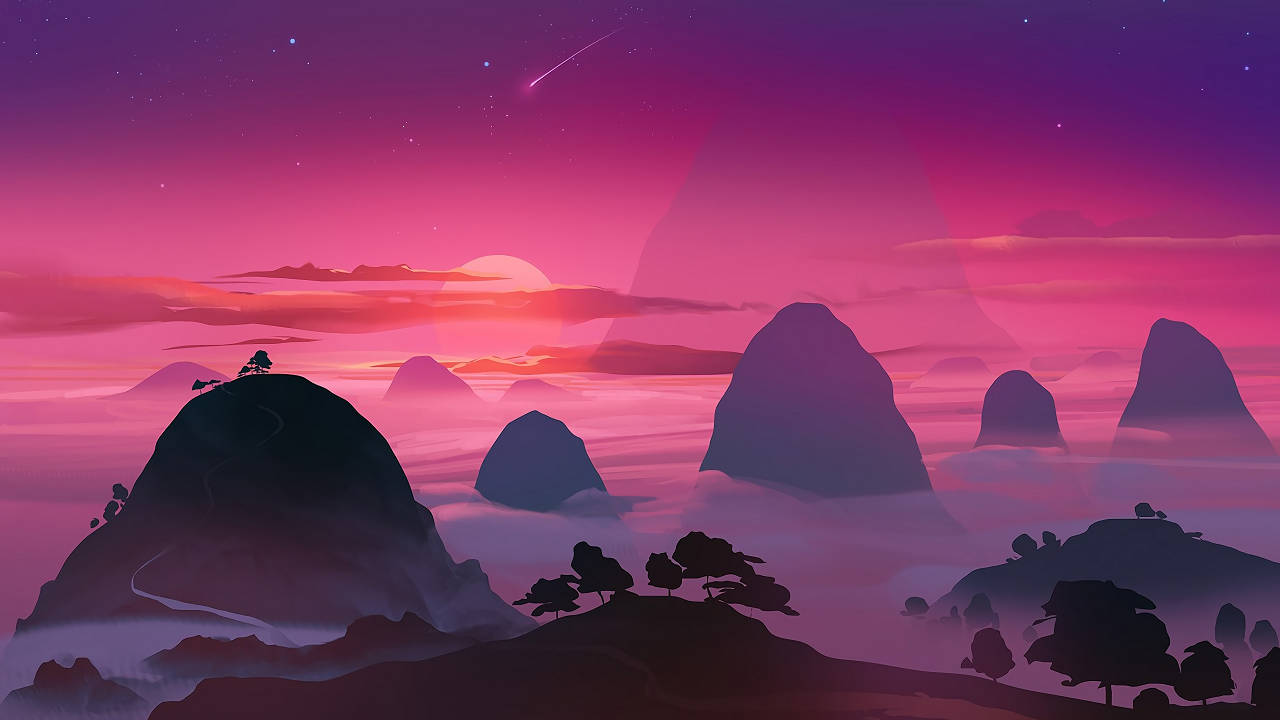
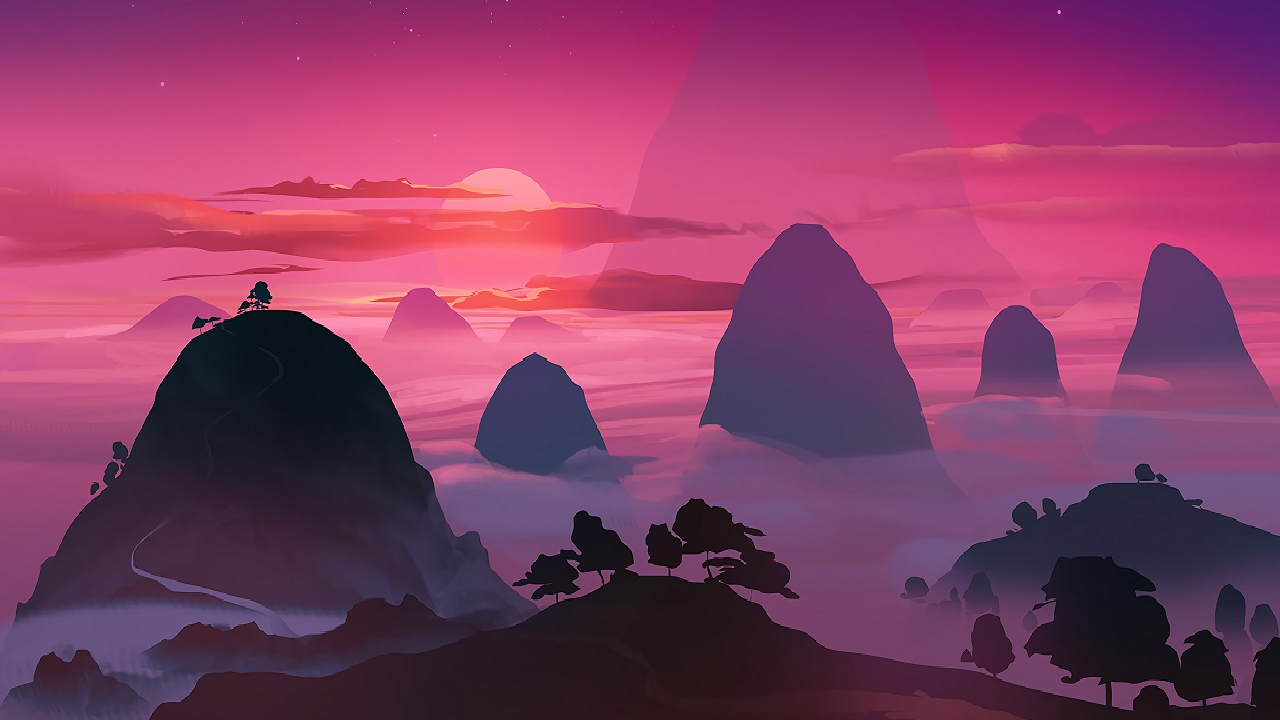
feat: working side scrolling background

diff --git a/src/script.js b/src/script.js
@@ -1,11 +1,15 @@
+const SCREEN_WIDTH = 1280;
+const SCREEN_HEIGHT = 720;
 const WORLD_BG = "./assets/scenes/world_bg.png";
 const PLAYER_IMG = "./assets/personas/persona_1.png";
+const MOUNTAIN_IMG = "./assets/scenes/mountains_side.png";
+const STREET_IMG = "./assets/scenes/street_side.png";
 
 class GameEngine {
   constructor() {
     this.canvas = document.createElement("canvas");
-    this.canvas.width = 1280;
-    this.canvas.height = 720;
+    this.canvas.width = SCREEN_WIDTH;
+    this.canvas.height = SCREEN_HEIGHT;
     this.context = this.canvas.getContext("2d");
     this.bgImage = new Image();
     this.bgImage.src = WORLD_BG;
@@ -13,7 +17,6 @@ class GameEngine {
 
   start() {
     document.body.insertBefore(this.canvas, document.body.childNodes[0]);
-    this.interval = setInterval(updateGame, 30);
   }
 
   clear() {
@@ -28,21 +31,47 @@ class GameEngine {
   }
 }
 
+class ScrollingComponent {
+  constructor(imagePath, x, y, width, height, speed) {
+    this.x = x;
+    this.y = y;
+
+    this.width = width;
+    this.height = height;
+
+    this.speed = speed;
+    this.image = new Image();
+    this.image.src = imagePath;
+  }
+
+  scroll(context) {
+    // change sign of speed to change scroll direction
+    this.x = (((this.x - this.speed) % this.width) + this.width) % this.width;
+    this.drawImageRepeat(context);
+  }
+
+  drawImageRepeat(context) {
+    context.drawImage(this.image, this.x, this.y);
+    context.drawImage(this.image, this.x + this.width, this.y);
+    context.drawImage(this.image, this.x - this.width, this.y);
+  }
+}
 class GameComponent {
-  constructor(imagePath, x, y, width, height, context) {
+  constructor(imagePath, x, y, accX, accY, width, height) {
     this.x = x;
     this.y = y;
 
     this.speedX = 0;
     this.speedY = 0;
 
+    this.accX = accX;
+    this.accY = accY;
+
     this.width = width;
     this.height = height;
 
     this.image = new Image();
     this.image.src = imagePath;
-
-    this.context = context;
   }
 
   setPosition() {
@@ -53,16 +82,16 @@ class GameComponent {
   move(direction) {
     const actions = {
       up: () => {
-        this.speedY = -1;
+        this.speedY -= this.accY;
       },
       down: () => {
-        this.speedY = 1;
+        this.speedY += this.accY;
       },
       left: () => {
-        this.speedX = -1;
+        this.speedX -= this.accX;
       },
       right: () => {
-        this.speedX = 1;
+        this.speedX += this.accX;
       },
       stop: () => {
         this.speedX = 0;
@@ -70,32 +99,34 @@ class GameComponent {
       },
     };
     actions[direction]();
-    
+
     this.setPosition();
   }
 
-  draw() {
-    this.context.drawImage(this.image, this.x, this.y, this.width, this.height);
+  draw(context) {
+    context.drawImage(this.image, this.x, this.y, this.width, this.height);
   }
 }
 
+const gamePlayers = [];
+const gameScenario = [];
 const GAME_RUNTIME = new GameEngine();
-const gameElements = [];
-var myGamePiece;
 
 function startGame() {
   GAME_RUNTIME.start();
-  gameElements.push(
-    new GameComponent(PLAYER_IMG, 30, 30, 160, 120, GAME_RUNTIME.context)
-  );
+  gamePlayers.push(new GameComponent(PLAYER_IMG, 30, 400, 1, 1, 160, 120));
+  gameScenario.push(new ScrollingComponent(MOUNTAIN_IMG, 0, 230, 1280, 170, 1));
+  gameScenario.push(new ScrollingComponent(STREET_IMG, 0, 400, 1280, 350, 4));
+  updateGame();
 }
 
 function updateGame() {
+  window.requestAnimationFrame(updateGame);
+
+  console.log("update");
   GAME_RUNTIME.clear();
-  for (const element of gameElements) {
-    // element.move("right"); // move the element to the right
-    element.draw();
-  }
+  for (const element of gameScenario) element.scroll(GAME_RUNTIME.context);
+  for (const element of gamePlayers) element.draw(GAME_RUNTIME.context);
 }
 
 startGame();
